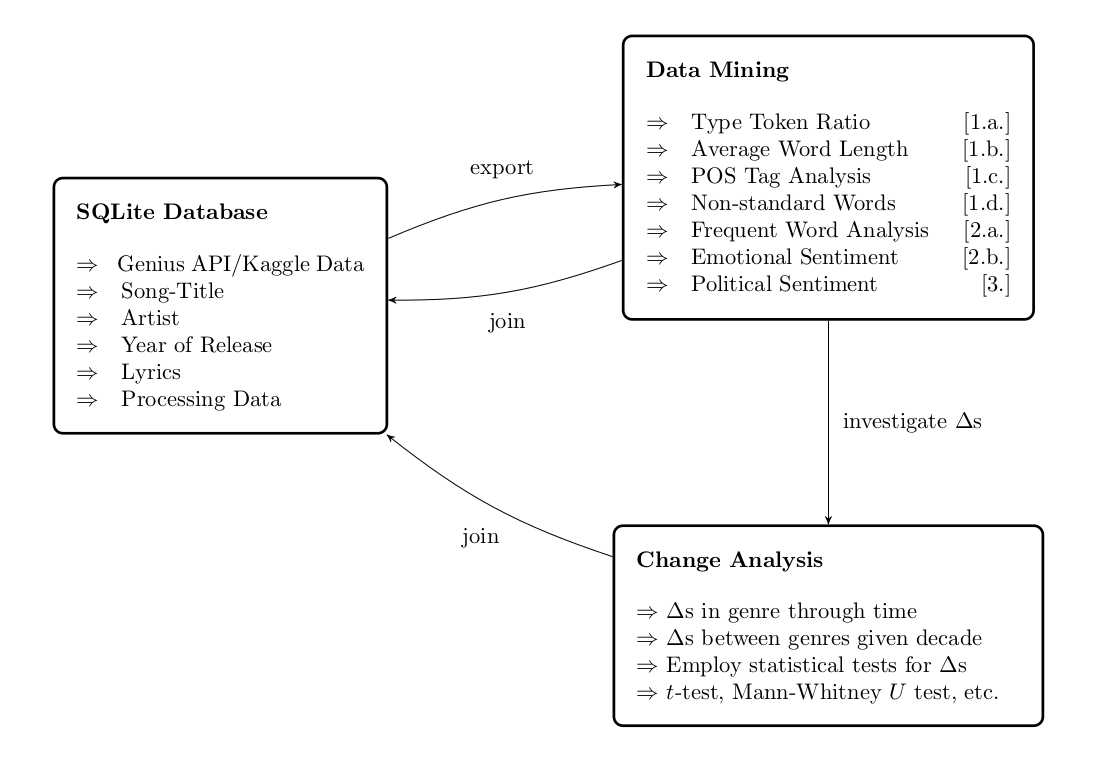
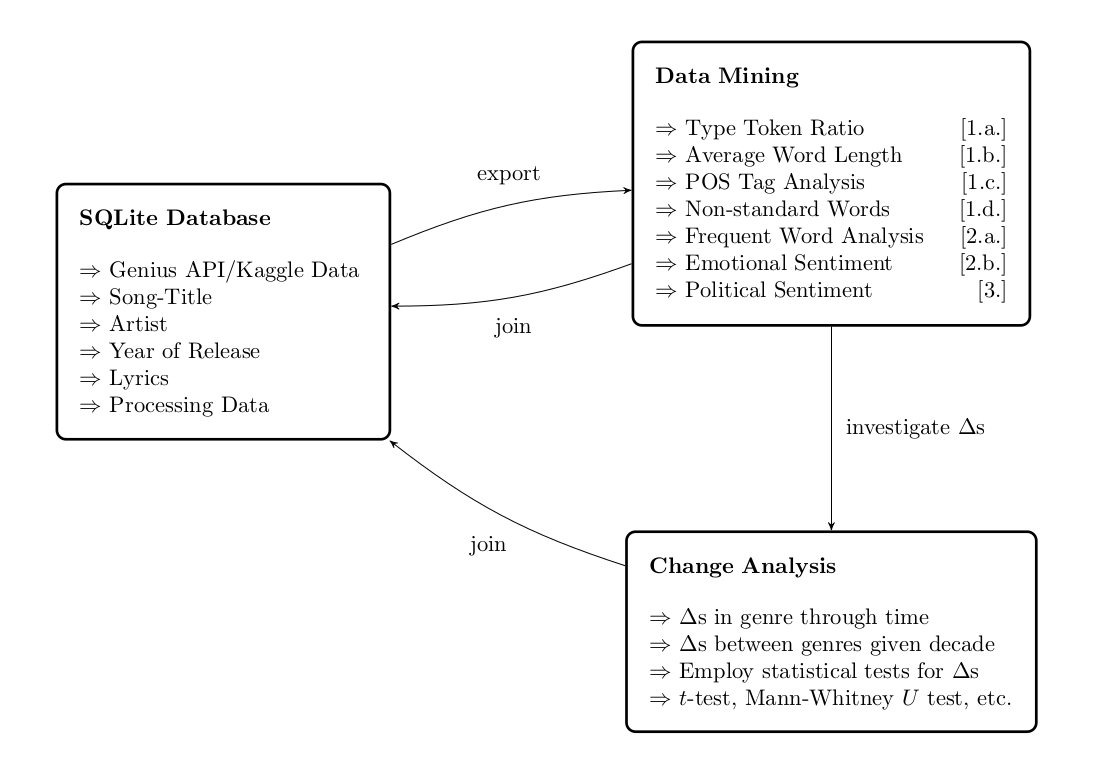
:snail: minor changes to image and new gitignore within docs to ignore tex-related files

diff --git a/docs/flowchart.tex b/docs/flowchart.tex
@@ -31,19 +31,19 @@
  {\begin{tabular}{l}
   \textbf{SQLite Database}\\\\
   \parbox{4.5cm}{\begin{itemize}
-   \item $\Rightarrow$ ~~Genius API/Kaggle Data
-   \item $\Rightarrow$ ~~Song-Title
-   \item $\Rightarrow$ ~~Artist
-   \item $\Rightarrow$ ~~Year of Release
-   \item $\Rightarrow$ ~~Lyrics
-   \item $\Rightarrow$ ~~Processing Data
+   \item $\Rightarrow$ Genius API/Kaggle Data
+   \item $\Rightarrow$ Song-Title
+   \item $\Rightarrow$ Artist
+   \item $\Rightarrow$ Year of Release
+   \item $\Rightarrow$ Lyrics
+   \item $\Rightarrow$ Processing Data
   \end{itemize}
   }
  \end{tabular}};
   
  % State: ACK with different content
  \node[state,    	% layout (defined above)
-  text width=5.71cm, 	% max text width
+  text width=5.5cm, 	% max text width
   yshift=2cm, 
   xshift = 3cm,		% move 2cm in y
   right of=QUERY, 	% Position is to the right of QUERY
@@ -52,14 +52,14 @@
  {%
  \begin{tabular}{l} 	% content
   \textbf{Data Mining}\\\\
-    \parbox{5.7cm}{\begin{itemize}
-    	\item $\Rightarrow$ ~~Type Token Ratio \hfill [1.a.]
-    	\item $\Rightarrow$ ~~Average Word Length \hfill [1.b.]
-    	\item $\Rightarrow$ ~~POS Tag Analysis \hfill [1.c.]
-    	\item $\Rightarrow$ ~~Non-standard Words \hfill [1.d.]
-    	\item $\Rightarrow$ ~~Frequent Word Analysis \hfill [2.a.]
-    	\item $\Rightarrow$ ~~Emotional Sentiment \hfill [2.b.]
-    	\item $\Rightarrow$ ~~Political Sentiment \hfill [3.]
+    \parbox{5.5cm}{\begin{itemize}
+    	\item $\Rightarrow$ Type Token Ratio \hfill [1.a.]
+    	\item $\Rightarrow$ Average Word Length \hfill [1.b.]
+    	\item $\Rightarrow$ POS Tag Analysis \hfill [1.c.]
+    	\item $\Rightarrow$ Non-standard Words \hfill [1.d.]
+    	\item $\Rightarrow$ Frequent Word Analysis \hfill [2.a.]
+    	\item $\Rightarrow$ Emotional Sentiment \hfill [2.b.]
+    	\item $\Rightarrow$ Political Sentiment \hfill [3.]
     	\end{itemize}
     }
  \end{tabular}
@@ -69,11 +69,11 @@
   below of=P,
   yshift=-6cm,
   anchor=center,
-  text width=6cm] (C) 
+  text width=5.7cm] (C) 
  {%
  \begin{tabular}{l}
   \textbf{Change Analysis}\\\\
-  \parbox{6cm}{\begin{itemize}
+  \parbox{5.71cm}{\begin{itemize}
   	\item $\Rightarrow$ $\Delta$s in genre through time
   	\item $\Rightarrow$ $\Delta$s between genres given decade
   	\item $\Rightarrow$ Employ statistical tests for $\Delta$s
